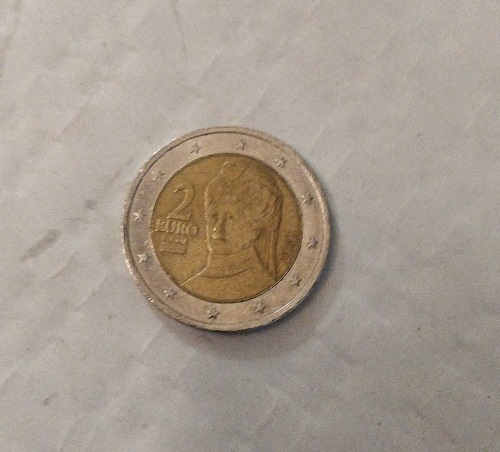
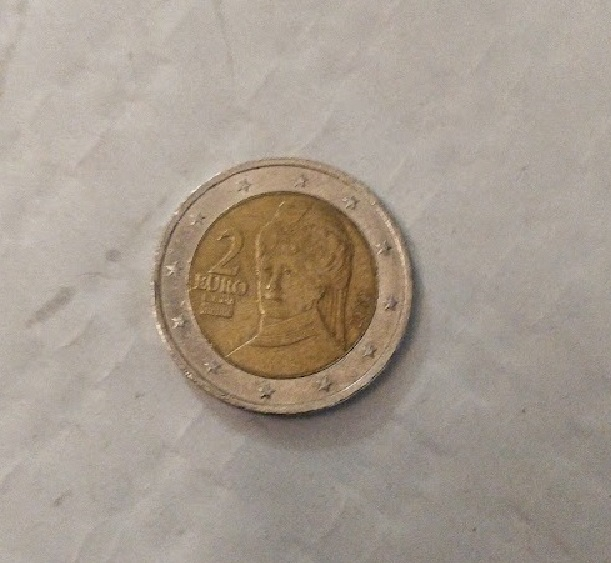
normalizeOrientation + mejora de getLines + centros de gravedad

diff --git a/src/imProcessing.py b/src/imProcessing.py
@@ -1,4 +1,7 @@
+import scipy.ndimage as ndi
+from ast import Try
 import dataProcessing as dp
+import math
 
 import matplotlib.pyplot as plt
 import numpy as np
@@ -15,21 +18,18 @@ class ImProcessing:
         plt.title(title)
         plt.show()
 
-    @classmethod
+    @ classmethod
     def extractData(self, img_path: str, ncoins=1) -> dict[str, list]:
 
         print(f"Identificando imagen: {img_path}")
         img = cv2.imread(img_path)  # Lee imagen
         # -- Ajustes de imagen para que sigan un mismo formato --
         img = cv2.cvtColor(img, cv2.COLOR_BGR2GRAY)  # Grayscale
+        img = cv2.normalize(img, None, alpha=0, beta=255,
+                            norm_type=cv2.NORM_MINMAX)
         # Separa y recorta cada moneda
         images = self.cropCircle(img, ncoins)
 
-        # Normalizamos
-        images = [self.clahe(cv2.cvtColor(img, cv2.COLOR_GRAY2BGR))
-                  for img in images]
-
-        self.getLines(images)
         # Diccionario de listas de datos para exportar al archivo csv
         data = dp.initData()
 
@@ -42,17 +42,23 @@ class ImProcessing:
             id = int(img_file.split('_')[0])
 
         # Si hay varias monedas en una misma imagen procesamos todas
-        for image in images if ncoins > 1 else images[:1]:
-            ocr_data = self.getOCR(image)   # Lectura de caracteres
+        for image in images:
+            equalized = self.clahe(cv2.cvtColor(image, cv2.COLOR_GRAY2BGR))
+            ocr_data = self.getOCR(equalized)   # Lectura de caracteres
             # Ajustamos el tamaño
             resized = cv2.resize(image, (dp.IM_SIZE_ADJ, dp.IM_SIZE_ADJ))
             Hu = self.huMoments(resized)      # Obtenemos los momentos de Hu
-            keyP = self.keyPoints(resized)    # Obtenemos las esquinas
-            # self.getAreas(resized)  # Detectamos formas y sus areas
+            # keyP = self.keyPoints(resized)    # Obtenemos las esquinas
+            edges = self.edgesInside(image)
+            # Calculamos centro de gravedad y orientamos imgaen
+            rotated, cog = self.normalizeOrientation(edges, edges)
+            self.getLines(rotated)
 
             # Guardamos los datos obtenidos en el diccionario
             data.get("HU_1").append(Hu[0])
             data.get("HU_2").append(Hu[1])
+            data.get("CG_X").append(cog[0])
+            data.get("CG_Y").append(cog[1])
             dp.appendOcrData(ocr_data, data)
             data.get("CLASS").append(id)
 
@@ -77,11 +83,11 @@ class ImProcessing:
 
         return data
 
-    def removeExternalRing(img: cv2.Mat) -> cv2.Mat:
-        height, width, _ = img.shape
+    def removeExternalRing(img: cv2.Mat, pr) -> cv2.Mat:
+        height, width = img.shape
         # Ahora eliminamos el anillo exterior de la moneda
         mask = np.zeros((height, width), np.uint8)
-        cv2.circle(mask, (int(height/2), int(width/2)), int((height/2) * .7), 255,
+        cv2.circle(mask, (int(height/2), int(width/2)), int((height/2) * pr), 255,
                    thickness=-1)
         return cv2.bitwise_and(img, img, mask=mask)
 
@@ -92,7 +98,7 @@ class ImProcessing:
         # Los separamos en sus tres canales
         l, a, b = cv2.split(lab)
         # Aplicamos CLAHE (Contrast Limited Adaptive Histogram Equalization) al canal L
-        clahe = cv2.createCLAHE(clipLimit=3.0, tileGridSize=(8, 8))
+        clahe = cv2.createCLAHE(clipLimit=3.0, tileGridSize=(5, 5))
         cl = clahe.apply(l)
         # Y lo introducimos a la imagen
         limg = cv2.merge((cl, a, b))
@@ -106,8 +112,6 @@ class ImProcessing:
         # Aplicamos un suavizado para eliminar ruidos
         blurred = cv2.GaussianBlur(
             img, dp.HCIRCLES_GAUSS_KERNEL, dp.HCIRCLES_GAUSS_SIGMA)
-
-        # self.quickShow(blurred, 'blur')
         # Obtenemos los bordes de la imagen
         # (Multiplicamos la imagen por dos para aumentar las diferencias de intensidades)
         edges = cv2.Canny(blurred*2, dp.CANNY_TRHES1,
@@ -117,23 +121,23 @@ class ImProcessing:
         if DEBUG:
             self.DCanny = edges
         # -------------
-
         #   Obtenemos los circulos
         circles = cv2.HoughCircles(edges, cv2.HOUGH_GRADIENT, dp.HCIRCLES_DP, minDist=dp.IM_SIZE_ADJ,
                                    param1=dp.HCIRCLES_PAR1, param2=dp.HCIRCLES_PAR2, minRadius=dp.HCIRCLES_MINRAD, maxRadius=0)
 
         # Muestra cuantos circulos se han encontrado
         print(f"Detectados {len(circles[0,:])} Circulos")
-
         # Obtenemos la mediana de los radios
         mediana = np.median(circles[0, :ncoins, 2])
-        print(f"Mediana: {mediana}")
 
-        # edges_ls = []
+        print(f"Mediana: {mediana}" if ncoins > 1 else '')
+
         cropped_ls = []
         # Pasamos a escala BGR para pocer marcar la imagen con colores
         show = cv2.cvtColor(img, cv2.COLOR_GRAY2BGR)
         # Por cada circulo:
+        miss = False
+        deleted = 0
         for idx, i in enumerate(circles[0, :]):
             # -- Creamos una máscara --
             mask = np.zeros((height, width), np.uint8)
@@ -143,10 +147,10 @@ class ImProcessing:
             r = min(x, y, width-x, height-y, r)
 
             # Borra circulos de tamaño desproporcionado
-            print(f"RADIO->{r}")
             if (r > mediana*1.2 or r < mediana*0.8):
                 print(f'Borra circulo: x={x} y={y} r={r}')
-                ncoins = ncoins+1
+                miss = True
+                deleted += 1
                 continue
 
             # Dibujamos el circulo en la máscara
@@ -154,29 +158,21 @@ class ImProcessing:
                        thickness=-1)
             # Aplicamos la máscara
             masked_data = cv2.bitwise_and(img, img, mask=mask)
-
             # Ajustamos la imagen al circulo
             cropped = masked_data[y-r:y+r, x-r:x+r]
-            # cropped_edges = edges[y-r:y+r, x-r:x+r]
             # Añadimos a la lista de monedas en la imagen
             cropped_ls.append(cropped)
-            # edges_ls.append(cropped_edges)
 
             # -- DEBUG} --
             #  Dibujamos los circulos seleccionados
             cv2.circle(show,  (x, y), r, (0, 255, 0),
                        thickness=2)
-
             if DEBUG:
                 self.DCircles = show
-
             #  ------------
-
             # Nos salimos del bucle cuando hemos seleccionado el numero de monedas especificado
-            if idx == ncoins - 1:
+            if idx == ncoins - 1 and (deleted > 3 or not miss):
                 break
-
-        # return cropped_ls, edges_ls
         return cropped_ls
 
     @ staticmethod
@@ -237,22 +233,28 @@ class ImProcessing:
 
         return dst1
 
-    def getLines(imgs: list[cv2.Mat]):
+    @ classmethod
+    def edgesInside(self, img):
+        # Normalizamos
+        img = self.clahe(cv2.cvtColor(img, cv2.COLOR_GRAY2BGR))
+        # Aplicamos un suavizado para eliminar ruidos
+        aux = cv2.GaussianBlur(
+            img, dp.HLINES_GAUSS_KERNEL, dp.HLINES_GAUSS_SIGMA)
+        # Obtenemos los bordes de la imagen
+        # (Multiplicamos la imagen por dos para aumentar las diferencias de intensidades)
+        return cv2.Canny(aux, dp.CANNY_TRHES1, dp.CANNY_TRHES2)
 
-        for img in imgs:
-            # Aplicamos un suavizado para eliminar ruidos
-            aux = cv2.GaussianBlur(
-                img, dp.HLINES_GAUSS_KERNEL, dp.HLINES_GAUSS_SIGMA)
-            # Obtenemos los bordes de la imagen
-            # (Multiplicamos la imagen por dos para aumentar las diferencias de intensidades)
-            edges = cv2.Canny(aux*4, dp.CANNY_TRHES1, dp.CANNY_TRHES2)
-            lines = cv2.HoughLines(edges, 1, np.pi/180, 50)
-            print(f"n lineas: {len(lines)}")
+    @ classmethod
+    def getLines(self, edges: cv2.Mat):
+        lines = cv2.HoughLines(edges, 1, np.pi/180, 50)
+        if lines is not None:
             edges = cv2.cvtColor(edges, cv2.COLOR_GRAY2BGR)
-            for l1 in lines[:5]:
-                r1, theta1 = l1[0]
-                a, b = np.cos(theta1), np.sin(theta1)
-                x0, y0 = a*r1, b*r1
+
+            m = min(len(lines), dp.NUM_LINES)
+            for line in lines[:m]:
+                r, theta = line[0]
+                a, b = np.cos(theta), np.sin(theta)
+                x0, y0 = a*r, b*r
                 x1, y1, x2, y2 = int(
                     x0 + 1000*(-b)), int(y0 + 1000*(a)), int(x0 - 1000*(-b)), int(y0 - 1000*(a))
                 cv2.line(edges, (x1, y1), (x2, y2), (0, 0, 255), 2)
@@ -262,62 +264,34 @@ class ImProcessing:
                 plt.imshow(edges)
                 plt.title('Lines')
 
+            return lines[:m]
+        else:
+            return []
+
     @ classmethod
-    def getAreas(self, img: cv2.Mat):
-        img = img.copy()
-        height, width = img.shape
+    def normalizeOrientation(self, edges: cv2.Mat, image: cv2.Mat):
+        h, w = edges.shape
+        cy, cx = h/2, w/2
 
-        # Aplicamos un suavizado para eliminar ruidos
-        aux = cv2.GaussianBlur(
-            img, dp.HLINES_GAUSS_KERNEL, dp.HLINES_GAUSS_SIGMA)
-        # Obtenemos los bordes de la imagen
-        # (Multiplicamos la imagen por dos para aumentar las diferencias de intensidades)
-        edges = cv2.Canny(aux, dp.CANNY_TRHES1, dp.CANNY_TRHES2)
-        # Ahora eliminamos el anillo exterior de la moneda
-        edges = self.removeExternalRing(edges)
+        cmy, cmx = ndi.center_of_mass(edges)
 
-        # Creamos un kernel para procesar la imagen
-        kernel = cv2.getStructuringElement(cv2.MORPH_ELLIPSE, (7, 7))
+        angle = math.degrees(math.atan2(cy-cmy, cx-cmx))
 
-        morphed = cv2.morphologyEx(
-            edges, cv2.MORPH_CLOSE, kernel, iterations=1)
-        plt.subplot(245)
-        plt.imshow(morphed, 'gray')
-        plt.title("CLOSE")
-        # using a findContours() function
-        contours, _ = cv2.findContours(
-            morphed, cv2.RETR_EXTERNAL, cv2.CHAIN_APPROX_NONE)
-
-        i = 0
-
-        print(len(contours))
-        # list for storing names of shapes
-        img = cv2.cvtColor(img, cv2.COLOR_GRAY2BGR)
-        for contour in contours:
-
-            # here we are ignoring first counter because
-            # findcontour function detects whole image as shape
-            if i == 0:
-                i = 1
-                continue
-
-            # cv2.approxPloyDP() function to approximate the shape
-            approx = cv2.approxPolyDP(
-                contour, 0.01 * cv2.arcLength(contour, True), True)
-
-            # using drawContours() function
-            cv2.drawContours(img, [contour], 0, (0, 0, 255), cv2.FILLED)
-
-            # finding center point of shape
-            M = cv2.moments(contour)
-            if M['m00'] != 0.0:
-                x = int(M['m10']/M['m00'])
-                y = int(M['m01']/M['m00'])
+        M = cv2.getRotationMatrix2D((cx, cy), angle+180, 1)
+        rotated = cv2.warpAffine(image, M, (w, h))
 
         if DEBUG:
+            edges = cv2.cvtColor(edges, cv2.COLOR_GRAY2BGR)
+            plt.subplot(246)
+            cv2.circle(edges, (int(cx), int(cy)),
+                       3, (255, 0, 0), cv2.FILLED)
+            cv2.circle(edges, (int(cmx), int(cmy)),
+                       5, (0, 255, 0), cv2.FILLED)
+            plt.imshow(edges)
+            plt.title('Centers')
+
             plt.subplot(247)
-            plt.imshow(edges, 'gray')
-            plt.title('Edges')
-            plt.subplot(248)
-            plt.imshow(img)
-            plt.title('Contours')
+            plt.imshow(rotated, 'gray')
+            plt.title("Rotated")
+
+        return rotated, (cmx, cmy)

diff --git a/src/dataProcessing.py b/src/dataProcessing.py
@@ -20,10 +20,10 @@ HCIRCLES_PAR1 = 50
 HCIRCLES_PAR2 = 100
 HCIRCLES_MINRAD = 127
 
-HLINES_GAUSS_KERNEL = (21, 21)
+HLINES_GAUSS_KERNEL = (9, 9)
 HLINES_GAUSS_SIGMA = 5
 
-OCR_MINRATE = 0.7
+OCR_MINRATE = 0.5
 
 N_HUMOMS = 2
 
@@ -31,13 +31,17 @@ KP_MAXCORNERS = 10
 KP_QUALITY = 0.1
 KP_MINDIST = 5
 
+NUM_LINES = 50
+
 with open(FILE_COIN_WORDS, 'r') as f:
     COIN_WORDS = set(f.readlines())
 
 
 def initData():
     data = {"HU_1": [],
-            "HU_2": []
+            "HU_2": [],
+            "CG_X": [],
+            "CG_Y": []
             }
     for word in COIN_WORDS:
         data.update({f"OCR_{word[:-1]}": []})
